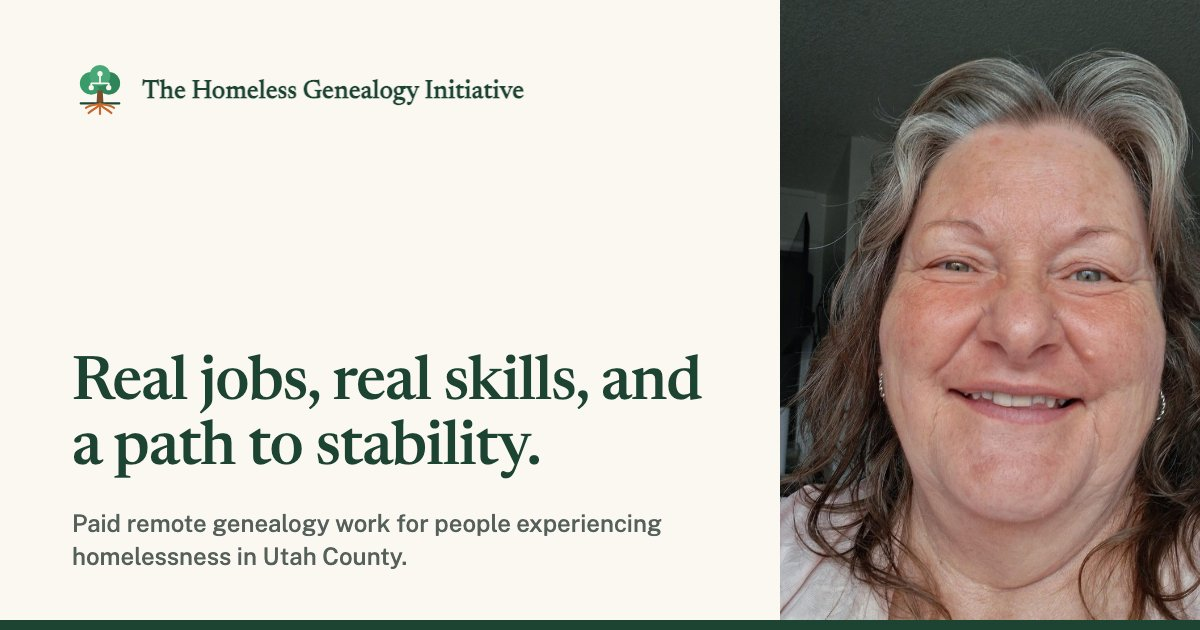
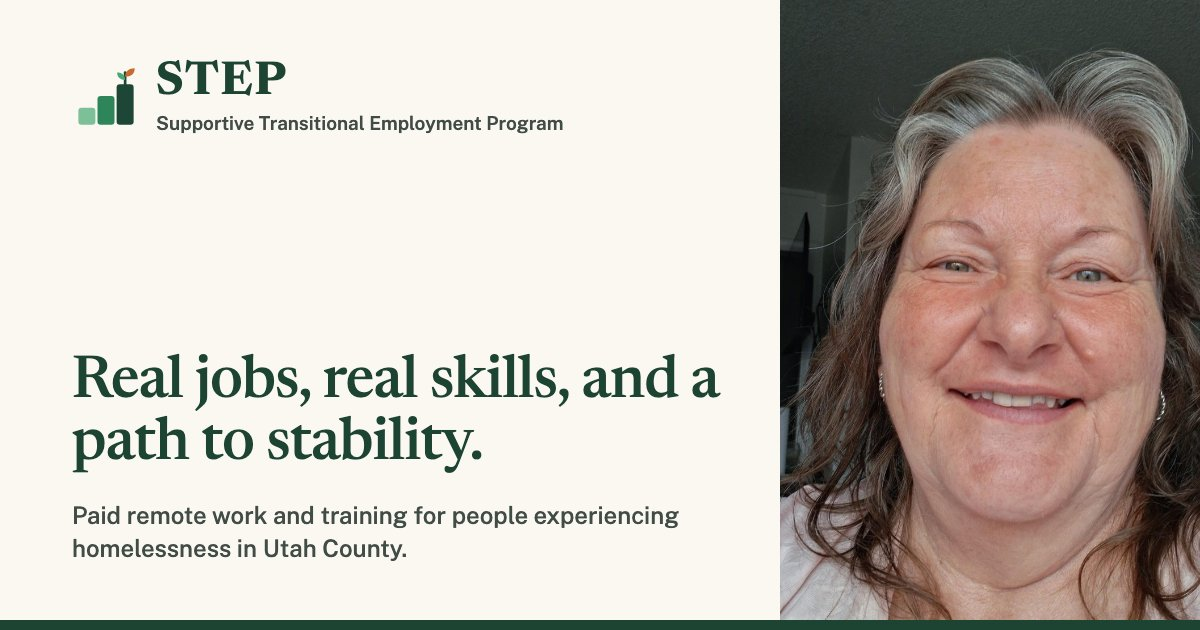
Rename to STEP: Supportive Transitional Employment Program
New logo (three rising steps with a sprout), STEP wordmark with the full
name in the header and footer, updated page titles and descriptions,
About page headline 'A first step toward stable work.', regenerated
share image and app icons.

Changed region(s): [[0.0617, 0.5429, 0.6167, 0.754], [0.0617, 0.0905, 0.4625, 0.2111], [0.0617, 0.7841, 0.5858, 0.9048]]

diff --git a/src/pages/about.html b/src/pages/about.html
@@ -1,13 +1,13 @@
 <!--
 title: About us
-description: Putting Down Roots is a transitional employment program for people experiencing homelessness in Utah County, founded in 2026 and hosted by BYU's Department of Economics.
+description: STEP, the Supportive Transitional Employment Program, is a transitional employment program for people experiencing homelessness in Utah County, founded in 2026 and hosted by BYU's Department of Economics.
 current: about
 -->
 <header class="page-header">
   <div class="container">
     <p class="page-header__kicker">About us</p>
-    <h1>Putting Down Roots</h1>
-    <p class="page-header__lede">The Homeless Genealogy Initiative is a transitional employment program. It offers paid, meaningful work to people experiencing homelessness in Utah County and helps preserve family connections for future generations.</p>
+    <h1>A first step toward stable work.</h1>
+    <p class="page-header__lede">STEP, the Supportive Transitional Employment Program, offers paid, meaningful work to people experiencing homelessness in Utah County and helps preserve family connections for future generations.</p>
   </div>
 </header>
 
@@ -42,7 +42,7 @@ current: about
       <h2>We meet people where they are.</h2>
     </div>
     <div class="prose">
-      <p>The <strong>Homeless Genealogy Initiative</strong> (HGI) was founded to help break that cycle. Founded in 2026, we are a transitional employment program for people experiencing homelessness in Utah County. Employees contribute to a large-scale family history research project hosted by Brigham Young University’s Department of Economics. Our program provides temporary, flexible, remote employment where participants develop professional skills, receive on-the-job training, regain professional confidence, and access resources that prepare them for long-term employment.</p>
+      <p><strong>STEP</strong>, the Supportive Transitional Employment Program, was founded in 2026 to help break that cycle. We are a transitional employment program for people experiencing homelessness in Utah County. Employees contribute to a large-scale family history research project hosted by Brigham Young University’s Department of Economics. Our program provides temporary, flexible, remote employment where participants develop professional skills, receive on-the-job training, regain professional confidence, and access resources that prepare them for long-term employment.</p>
       <p>We don’t expect our community members to have overcome all the barriers of homelessness before they are able to work. Instead, we acknowledge these challenges and have designed our employment model to meet them where they are.</p>
       <p><strong>Fully remote.</strong> For participants without reliable transportation, our fully remote work allows them to complete assignments anywhere they have internet access, including public libraries, university campuses, shelters, or even a mobile device.</p>
       <p><strong>10 hours a week.</strong> Many participants are balancing housing instability, medical appointments, or other personal challenges, so employees work only 10 hours a week on a schedule they set themselves. That provides flexibility while building consistency and responsibility.</p>

diff --git a/assets/css/styles.css b/assets/css/styles.css
@@ -1,4 +1,4 @@
-/* The Homeless Genealogy Initiative */
+/* STEP: Supportive Transitional Employment Program */
 
 :root {
   --ink: #1c2420;
@@ -111,7 +111,9 @@ strong { font-weight: 600; }
 .site-header__inner { position: relative; display: flex; align-items: center; gap: 28px; min-height: var(--header-h); }
 .brand { display: flex; align-items: center; gap: 10px; color: var(--forest); text-decoration: none; }
 .brand img { width: 40px; height: 40px; flex-shrink: 0; }
-.brand__name { font-family: var(--serif); font-size: 1.15rem; font-weight: 600; line-height: 1.15; }
+.brand__text { display: flex; flex-direction: column; }
+.brand__name { font-family: var(--serif); font-size: 1.55rem; font-weight: 700; line-height: 1; letter-spacing: 0.04em; }
+.brand__full { font-size: 0.74rem; font-weight: 500; color: var(--muted); line-height: 1.25; margin-top: 3px; }
 .brand:hover { color: var(--forest); }
 
 .nav { display: flex; align-items: center; gap: 28px; margin-left: auto; }
@@ -168,7 +170,8 @@ strong { font-weight: 600; }
 @keyframes menu-down { from { opacity: 0; transform: translateY(-4px); } to { opacity: 1; transform: none; } }
 @media (max-width: 420px) {
   :root { --gutter: 16px; }
-  .brand__name { font-size: 1rem; }
+  .brand__name { font-size: 1.35rem; }
+  .brand__full { font-size: 0.66rem; max-width: 15em; }
   .brand img { width: 34px; height: 34px; }
 }
 
@@ -421,7 +424,9 @@ strong { font-weight: 600; }
 .site-footer a { color: #fff; text-decoration: none; }
 .site-footer a:hover { text-decoration: underline; color: #fff; }
 .footer-grid { display: grid; grid-template-columns: 1.6fr 1fr 1fr 1.4fr; gap: 40px; }
-.footer-name { font-family: var(--serif); font-size: 1.3rem; color: #fff; margin-bottom: 10px; }
+.footer-name { display: flex; align-items: center; gap: 10px; font-family: var(--serif); font-size: 1.6rem; font-weight: 700; letter-spacing: 0.04em; color: #fff; margin-bottom: 2px; }
+.footer-name img { background: #fbf8f2; border-radius: 8px; padding: 3px; width: 34px; height: 34px; }
+.footer-full { color: #fff; font-weight: 500; margin-bottom: 12px; }
 .footer-about p:last-child { max-width: 28em; }
 .footer-heading { font-family: var(--sans); font-size: 0.95rem; font-weight: 700; color: #fff; margin-bottom: 14px; letter-spacing: 0; }
 .site-footer ul { list-style: none; padding: 0; margin: 0; display: grid; gap: 10px; }

diff --git a/src/layout.html b/src/layout.html
@@ -32,9 +32,12 @@
 
   <header class="site-header">
     <div class="container site-header__inner">
-      <a class="brand" href="{{ base }}">
+      <a class="brand" href="{{ base }}" aria-label="STEP: Supportive Transitional Employment Program, home">
         <img src="{{ base }}assets/img/logo-mark.svg" alt="" width="40" height="40">
-        <span class="brand__name">The Homeless Genealogy Initiative</span>
+        <span class="brand__text">
+          <span class="brand__name">STEP</span>
+          <span class="brand__full">Supportive Transitional Employment Program</span>
+        </span>
       </a>
       <nav class="nav" id="primary-nav" aria-label="Primary">
         <a href="{{ base }}about.html"{{ current.about }}>About</a>
@@ -61,7 +64,8 @@
     <div class="container">
       <div class="footer-grid">
         <div class="footer-about">
-          <p class="footer-name">The Homeless Genealogy Initiative</p>
+          <p class="footer-name"><img src="{{ base }}assets/img/logo-mark.svg" alt="" width="32" height="32"> STEP</p>
+          <p class="footer-full">Supportive Transitional Employment Program</p>
           <p>A transitional employment program in Utah County. Participants are paid to help link U.S. census records since 1800 to the FamilySearch Family Tree while they prepare for long-term work.</p>
         </div>
         <nav aria-label="Footer">
@@ -95,8 +99,8 @@
         </div>
       </div>
       <div class="footer-bottom">
-        <p>© <span data-year>{{ year }}</span> The Homeless Genealogy Initiative</p>
-        <p>Putting Down Roots</p>
+        <p>© <span data-year>{{ year }}</span> STEP: Supportive Transitional Employment Program</p>
+        <p>Provo, Utah</p>
       </div>
     </div>
   </footer>

diff --git a/src/pages/hire.html b/src/pages/hire.html
@@ -1,6 +1,6 @@
 <!--
 title: For employers
-description: Hire from the Homeless Genealogy Initiative. Participants bring recent paid experience in remote, detail-oriented records research with BYU's Record Linking Lab.
+description: Hire from STEP, the Supportive Transitional Employment Program. Participants bring recent paid experience in remote, detail-oriented records research with BYU's Record Linking Lab.
 current: hire
 -->
 <header class="page-header">

diff --git a/src/pages/index.html b/src/pages/index.html
@@ -1,5 +1,5 @@
 <!--
-title: The Homeless Genealogy Initiative
+title: STEP: Supportive Transitional Employment Program
 description: Fund real jobs, real skills, and a path to stability for people experiencing homelessness in Utah. Participants are paid to help link U.S. census records to the FamilySearch Family Tree with BYU's Record Linking Lab.
 -->
 <section class="hero">

diff --git a/src/pages/how-it-works.html b/src/pages/how-it-works.html
@@ -1,6 +1,6 @@
 <!--
 title: How it works
-description: Apply, onboard, work, employment, stabilize, and move forward: the six steps of the Homeless Genealogy Initiative.
+description: Apply, onboard, work, employment, stabilize, and move forward: the six steps of STEP, the Supportive Transitional Employment Program.
 current: how
 -->
 <header class="page-header">

diff --git a/src/pages/contact.html b/src/pages/contact.html
@@ -1,6 +1,6 @@
 <!--
 title: Contact us
-description: Questions about the Homeless Genealogy Initiative? Get in touch about donations, volunteering, or the employment program.
+description: Questions about STEP? Get in touch about donations, volunteering, or the employment program.
 current: contact
 -->
 <header class="page-header">

diff --git a/src/pages/stories/index.html b/src/pages/stories/index.html
@@ -1,6 +1,6 @@
 <!--
 title: Meet our participants
-description: Stories from the people working, learning, and rebuilding through the Homeless Genealogy Initiative.
+description: Stories from the people working, learning, and rebuilding through STEP.
 current: stories
 -->
 <header class="page-header">

diff --git a/assets/js/main.js b/assets/js/main.js
@@ -1,4 +1,4 @@
-/* The Homeless Genealogy Initiative: mobile menu and contact form.
+/* STEP: mobile menu and contact form.
    Pages are complete HTML without this script; it only adds behavior. */
 
 (function () {

diff --git a/build.py b/build.py
@@ -1,5 +1,5 @@
 #!/usr/bin/env python3
-"""Build the Homeless Genealogy Initiative website into _site/.
+"""Build the STEP (Supportive Transitional Employment Program) website into _site/.
 
     python3 build.py               # build for the live site
     python3 build.py --base /      # build for local preview at http://localhost:8080/

diff --git a/content/participants/candace.md b/content/participants/candace.md
@@ -8,7 +8,7 @@ card_quote: Everything comes back to hope.
 featured: no
 ---
 
-When Candace first joined the Homeless Genealogy Initiative, she was looking for work.
+When Candace first joined STEP, she was looking for work.
 
 She found much more than that.
 
@@ -30,4 +30,4 @@ The project has also provided something tangible during an uncertain season. The
 
 Perhaps that’s why the word *homeless* has never sat well with Candace. “I’d rather have a term that reflects someone who’s trying,” she says. “Something that captures the effort people are making instead of only their circumstances… Once you’re labeled, people stop seeing you as an individual,” she says. One word can’t capture a mother raising four children. It can’t capture someone who quietly welcomes newcomers, patiently teaches others, or notices when someone is sitting alone. It can’t capture the person encouraging others until they’re smiling more and standing a little straighter.
 
-The Homeless Genealogy Initiative has given Candace meaningful work, renewed confidence, and, as she says, “at least a little hope.” For her, it’s important not only to keep going, but to lend a hand along the way, smile a little more, and lift up others as they rise together.
+STEP has given Candace meaningful work, renewed confidence, and, as she says, “at least a little hope.” For her, it’s important not only to keep going, but to lend a hand along the way, smile a little more, and lift up others as they rise together.

diff --git a/README.md b/README.md
@@ -1,8 +1,8 @@
-# The Homeless Genealogy Initiative — Website
+# STEP: Supportive Transitional Employment Program — Website
 
 Live site: https://theian-studios.github.io/homeless-genealogy-initiative/
 
-A static website for the Homeless Genealogy Initiative ("Putting Down Roots"). A small Python script (`build.py`) turns the content files into finished HTML pages. GitHub runs it automatically on every push to `main` and publishes the result with GitHub Pages.
+A static website for STEP, the Supportive Transitional Employment Program. A small Python script (`build.py`) turns the content files into finished HTML pages. GitHub runs it automatically on every push to `main` and publishes the result with GitHub Pages.
 
 ## Where things live
 
